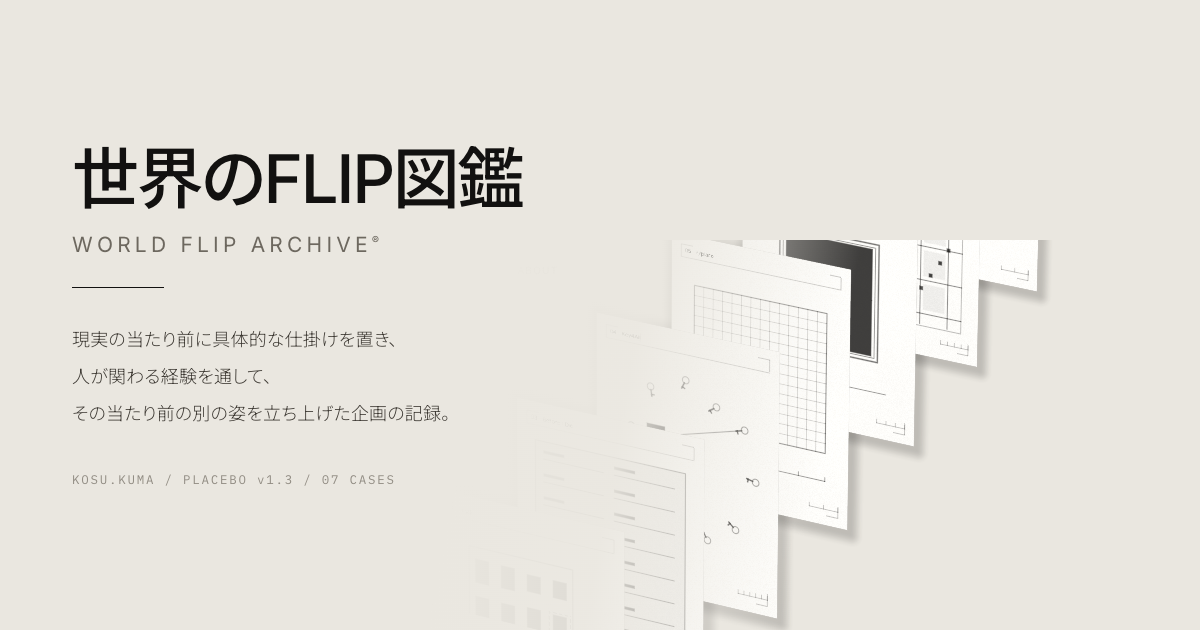
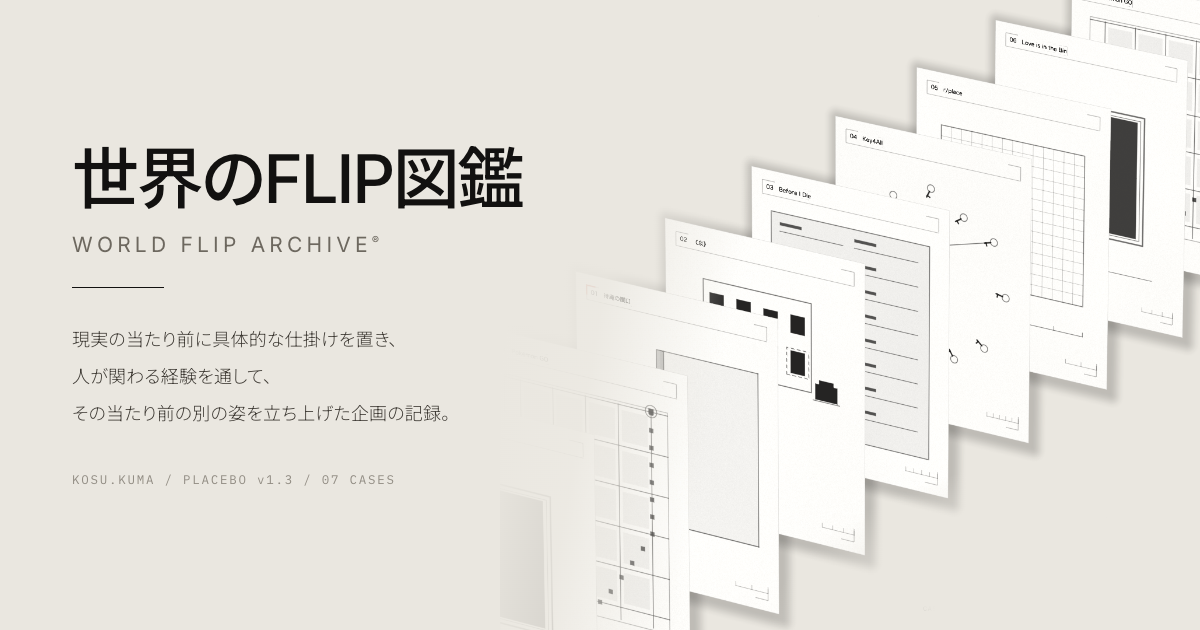
サムネの版が上で切れないようにする
1200x630 で撮ると画面の外に出ている版の頭が切り口になっていた。
撮影を 1200x1140 に変え、縦を広く取ってから縮めて敷く。版の向こうに
透けていたヘッダとタグラインは、撮った絵の左上を地色で潰して消す。

diff --git a/tools/og.html b/tools/og.html
@@ -1,15 +1,20 @@
 <!--
   SNSのサムネ（public/og.png）の原版。
 
-  1. トップを 1200x630 のビューポートで撮り、og-1200.png としてこの隣に置く
+  1. トップを **1200x1140** のビューポートで撮る。630 で撮ると帯の版の
+     上が切れるので、縦を広く取ってから縮めて敷く。
      node ~/.claude/skills/shot/shot.mjs http://localhost:3010/ \
-       --w 1200 --vh 630 --viewport --scale 1 --name og
+       --w 1200 --vh 1140 --viewport --scale 1 --name tall
      ※ WebGLを描かせるので --use-angle=swiftshader に差し替えた shot.mjs を使う
+  1b. 撮った絵の左上（x 0-545 / y 0-185）を地色 #eae7e0 で塗りつぶし、
+     og-src.png としてこの隣に置く。サイトのヘッダとタグラインが
+     帯の向こうに透けて写るのを消すため。版はこの範囲に入っていない。
   2. このファイルを同じ大きさで撮り、public/og.png に置く
   3. python3 で sha1 を取り、src/app/og-version.ts を書き換える
      （Xは og:image を URL 単位で覚えるので、版番号なしでは古い絵が出続ける）
 
-  背景を下へずらしているのは、トップ右下の書誌と七角形を画面外へ逃がすため。
+  背景を右端に寄せて少し下まで伸ばしているのは、トップ右下の書誌と
+  七角形を画面の外へ逃がすため。残る頭は .veil2 で地色に溶かす。
 -->
 <!doctype html><html lang="ja"><head><meta charset="utf-8">
 <link rel="preconnect" href="https://fonts.googleapis.com">
@@ -20,16 +25,16 @@
   body{width:1200px;height:630px;overflow:hidden;position:relative;background:#eae7e0;
        font-family:Inter,"Noto Sans JP",system-ui,sans-serif;font-feature-settings:"palt" 1;
        -webkit-font-smoothing:antialiased;color:#121110}
-  .shot{position:absolute;inset:0;background:url(og-1200.png) 10px 240px/1200px 630px no-repeat}
+  .shot{position:absolute;inset:0;background:url(og-src.png) right top/700px 665px no-repeat}
   /* 左半分だけ地色をかぶせて、呼び名が沈まないようにする */
   .veil{position:absolute;inset:0;
-        background:linear-gradient(100deg,#eae7e0 0%,#eae7e0 41%,rgba(234,231,224,.94) 53%,rgba(234,231,224,0) 69%)}
+        background:linear-gradient(100deg,#eae7e0 0%,#eae7e0 43%,rgba(234,231,224,.9) 50%,rgba(234,231,224,0) 60%)}
   /* 右下に出る書誌と七角形は、サムネでは要らないので地色へ溶かす */
   .veil2{position:absolute;right:0;bottom:0;width:620px;height:300px;
          background:radial-gradient(135% 135% at 100% 100%,#eae7e0 46%,rgba(234,231,224,0) 76%)}
   /* 右下隅にだけ、帯の下に残る文字の頭が覗くので消す */
-  .veil2{position:absolute;right:0;bottom:0;width:300px;height:110px;
-         background:radial-gradient(130% 130% at 100% 100%,#eae7e0 52%,rgba(234,231,224,0) 82%)}
+  .veil2{position:absolute;right:0;bottom:0;width:430px;height:190px;
+         background:radial-gradient(125% 125% at 100% 100%,#eae7e0 50%,rgba(234,231,224,0) 80%)}
   .box{position:absolute;left:72px;top:0;height:630px;width:560px;
        display:flex;flex-direction:column;justify-content:center}
   h1{font-size:67px;font-weight:500;letter-spacing:-.035em;line-height:1.08}

diff --git a/src/app/og-version.ts b/src/app/og-version.ts
@@ -1,3 +1,3 @@
 // public/og.png の中身から起こす。X は og:image を URL 単位で覚えるので、
 // ファイル名を据え置いて中身だけ差し替えると古い絵が出続ける。
-export const OG_VERSION = "909bb01c99";
+export const OG_VERSION = "a729083042";
